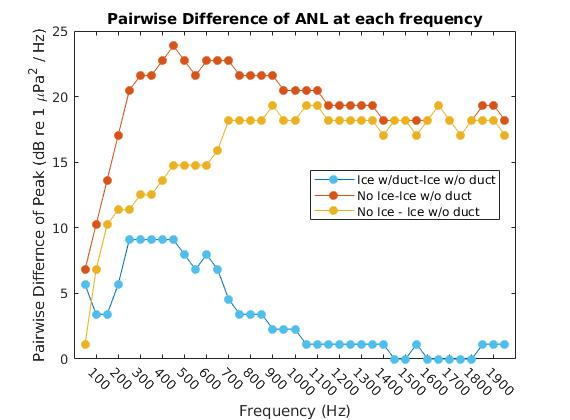
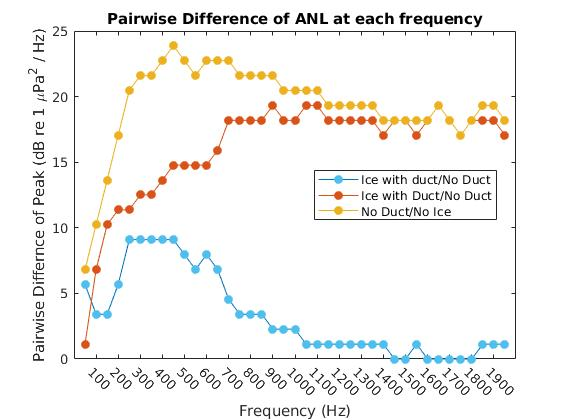
saves

diff --git a/kat_hist_combiner.m b/kat_hist_combiner.m
@@ -134,9 +134,9 @@ ANL_vec=linspace(ANL_min, ANL_max, 50);
 
 for i=1:39
     % number in each bin, edges
-[N_duct,edges_duct] = histcounts(ANL_duct(:,i),ANL_vec);    %,'Normalization','pdf');
-[N_no_duct,edges_no_duct] = histcounts(ANL_no_duct(:,i),ANL_vec);    %,'Normalization','pdf');
-[N_no_ice,edges_no_ice] = histcounts(ANL_no_ice(:,i),ANL_vec);    %,'Normalization','pdf'); %,'Normalization','pdf');
+[N_duct,edges_duct] = histcounts(ANL_duct(:,i),ANL_vec,'Normalization','probability');    %,'Normalization','pdf');
+[N_no_duct,edges_no_duct] = histcounts(ANL_no_duct(:,i),ANL_vec,'Normalization','probability');    %,'Normalization','pdf');
+[N_no_ice,edges_no_ice] = histcounts(ANL_no_ice(:,i),ANL_vec,'Normalization','probability');    %,'Normalization','pdf'); %,'Normalization','pdf');
 
 % edge realignment
 edges_duct=edges_duct(1:end-1)+(1.369/2);
@@ -173,7 +173,7 @@ xlabel('Frequency (Hz)')
 xticks([100 200 300 400 500 600 700 800 900 1000 1100 1200 1300 1400 1500 1600 1700 1800 1900])
 xtickangle(-45)
 title('Total Variation Distance of ANL at each frequency')
-legend('Ice with duct/No Duct','Ice with duct/No Ice','No Ice/No Duct','Location','best')
+legend('Ice with duct/Ice No Duct','Ice with duct/No Ice','No Ice/Ice No Duct','Location','best')
 
 %% MODE DIFFS - this is essentially pairwise differnce
 figure
@@ -205,12 +205,12 @@ legend('Ice w/duct-Ice w/o duct','No Ice-Ice w/o duct','No Ice - Ice w/o duct')
 
 %% MODE PLOTS %%%%%%%%%%%
 figure
-p1 = plot(avg_freq,ANL_vec(ind_duct),'-o','MarkerEdgeColor','#4DBEEE','MarkerFaceColor','#4DBEEE');
+p1 = plot(avg_freq,log10(ANL_vec(ind_duct)),'-o','MarkerEdgeColor','#4DBEEE','MarkerFaceColor','#4DBEEE');
 hold on
-p2 = plot(avg_freq,ANL_vec(ind_no_duct),'-o','MarkerEdgeColor','#D95319','MarkerFaceColor','#D95319');
-p3 = plot(avg_freq,ANL_vec(ind_no_ice),'-o','MarkerEdgeColor','#EDB120','MarkerFaceColor','#EDB120');
+p2 = plot(avg_freq,log10(ANL_vec(ind_no_duct)),'-o','MarkerEdgeColor','#D95319','MarkerFaceColor','#D95319');
+p3 = plot(avg_freq,log10(ANL_vec(ind_no_ice)),'-o','MarkerEdgeColor','#EDB120','MarkerFaceColor','#EDB120');
 
-ylabel(['Mode of ANL (dB re 1 \muPa^2 / Hz)'])
+ylabel(['Mode of ANL log(dB re 1 \muPa^2 / Hz)'])
 xlabel('Frequency (Hz)')
 xticks([100 200 300 400 500 600 700 800 900 1000 1100 1200 1300 1400 1500 1600 1700 1800 1900])
 xtickangle(-45)
@@ -219,14 +219,14 @@ legend('Ice with duct','Ice without duct','No Ice')
 %% Try by pairwise again?
 
 figure
-p1 = plot(avg_freq,pair_dist_duct_noduct,'-o','MarkerEdgeColor','#4DBEEE','MarkerFaceColor','#4DBEEE')
+p1 = plot(avg_freq,pair_dist_duct_noduct,'-o','MarkerEdgeColor','#4DBEEE','MarkerFaceColor','#4DBEEE');
 hold on
-p2 = plot(avg_freq,pair_dist_noice_noduct,'-o','MarkerEdgeColor','#D95319','MarkerFaceColor','#D95319')
-p3 = plot(avg_freq,pair_dist_duct_noice,'-o','MarkerEdgeColor','#EDB120','MarkerFaceColor','#EDB120')
+p2 = plot(avg_freq,pair_dist_duct_noice,'-o','MarkerEdgeColor','#D95319','MarkerFaceColor','#D95319');
+p3 = plot(avg_freq,pair_dist_noice_noduct,'-o','MarkerEdgeColor','#EDB120','MarkerFaceColor','#EDB120');
 
 ylabel(['Pairwise Differnce of Peak (dB re 1 \muPa^2 / Hz)'])
 xlabel('Frequency (Hz)')
 xticks([100 200 300 400 500 600 700 800 900 1000 1100 1200 1300 1400 1500 1600 1700 1800 1900])
 xtickangle(-45)
 title('Pairwise Difference of ANL at each frequency')
-legend('Ice w/duct-Ice w/o duct','No Ice-Ice w/o duct','No Ice - Ice w/o duct','Location','best')
+legend('Ice with duct/Ice No Duct','Ice with Duct/Ice No Duct','Ice No Duct/No Ice','Location','best')

diff --git a/kat_histogram_tests.m b/kat_histogram_tests.m
@@ -4,19 +4,19 @@ clc
 
 % first create two random data sets of size 1000
 x1=randn(1000);     % make data 1
-x2=randn(1000)+1; % make data 2 and make it "SOME OFFSET" higher than the other one
+x2=randn(1000)+10; % make data 2 and make it "SOME OFFSET" higher than the other one
 db=0.1;             % establish distance between bins
-bins=-10:db:10;     % create bin edges for the histogram
+bins=-10:db:10;     % create bin edges for the histogram/ we have 200 bins, 201 edgesmac
 
 % Now create histcounts of the two variables
 % histcounts functions: val1 = the number of instances in this bin
 % bin1= the bin edges, not that this comes back as the same input as bins!
 
 % i chose to get ride of the probability normalization
-[val1, bin1]=histcounts(x1,bins,'Normalization','pdf');   %,,'Normalization','pdf');  
+[val1, bin1]=histcounts(x1,bins,'Normalization','probability');   %,,'Normalization','pdf');  
 bin1_c=bin1(1:end-1)+db/2;  % cut off the extra edge so we can use it for plotting
 
-[val2, bin2]=histcounts(x2,bins,'Normalization','pdf');    %,'Normalization','pdf');  
+[val2, bin2]=histcounts(x2,bins,'Normalization','probability');    %,'Normalization','pdf');  
 bin2_c=bin2(1:end-1)+db/2;  % cut off the extra edge so we can use it for plotting
 
 % make a figure that plots the raw data straight up
@@ -40,7 +40,7 @@ dist_mode=bin2_c(ind_bin2)-bin1_c(ind_bin1)
 
 % total variation distance - literally how much distance is there between
 % every count of every bin, larger number is more differnet
-dist_tv=sum(abs(val2-val1))/2
+dist_tv=sum(abs(val1-val2))/2
 
 % This is a figure that plots the bin edge of the maximum value and the max
 % value

diff --git a/kat_hist_analysis.m b/kat_hist_analysis.m
@@ -39,8 +39,6 @@ ind_no_ice_2=find(timestamp_num_spectro > beg_no_ice);
 
 ind_no_ice=[ind_no_ice_1 ; ind_no_ice_2];
 
-
-
 %%
 
 ANL_ice=SPL_ANL(ind_ice,ff);
